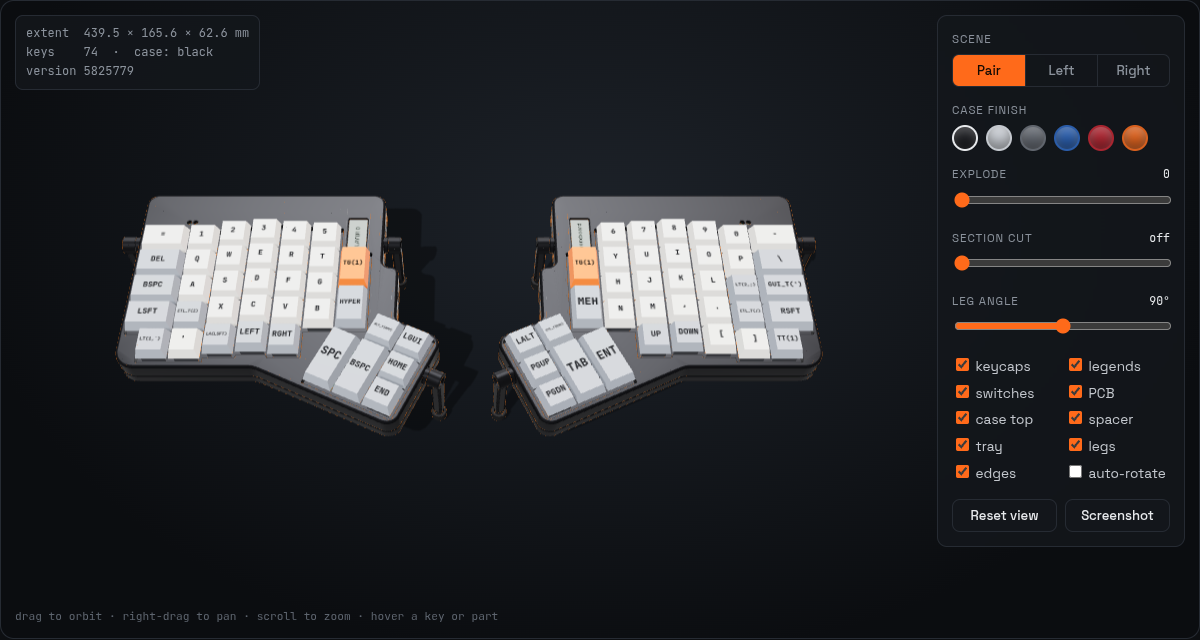
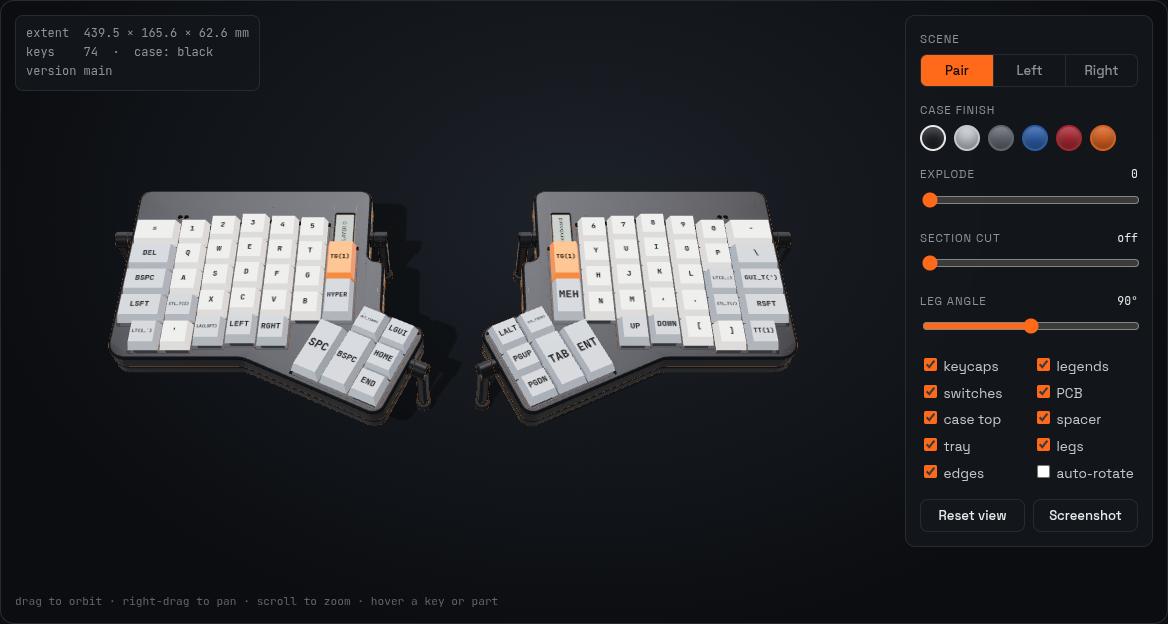
feat(site): place the assembled board parts in the viewer and show the final status
build_site.py adds every assembled part of the committed boards to the
manifest (footprint pose, Fab-outline box) and the viewer draws them, so
the left RP2040 and flash sit where WS2 placed them. The page gets the
final status table, known open issues and links to the CI artifacts; the
gallery is ordered PCB renders first, then the case renders. pages.yml
installs the font the case side mark needs and stays manual-only.
Fresh viewer screenshots.

diff --git a/site/web/index.html b/site/web/index.html
@@ -28,6 +28,7 @@
     <a href="#viewer">Viewer</a>
     <a href="#features">Features</a>
     <a href="#status">Status</a>
+    <a href="#files">Files</a>
     <a href="#gallery">Gallery</a>
     <a href="#docs">Docs</a>
     <a class="gh" href="https://github.com/w0rxbend/worxboard">GitHub ↗</a>
@@ -48,7 +49,8 @@
       <a class="btn primary" href="https://github.com/w0rxbend/worxboard">View the repository</a>
       <a class="btn" href="#viewer">Spin the model ↓</a>
     </div>
-    <p class="warn">Rev A is in development and has not been built. Do not order boards until gates G1–G3 pass
+    <p class="warn">Rev A is designed, routed and built in CI, but no board has been made or tested on hardware.
+      Do not order until gates G1–G3 pass
       (<a href="https://github.com/w0rxbend/worxboard/blob/main/docs/bom.md#gates">BOM gates</a>).</p>
   </div>
 </section>
@@ -128,17 +130,38 @@
 
 <section id="status" class="status-wrap">
   <h2>Status</h2>
-  <p class="lede">Rev A is built by parallel work-streams to a <a href="https://github.com/w0rxbend/worxboard/blob/main/docs/design.md">frozen spec</a>.</p>
+  <p class="lede">Rev A was built by parallel work-streams to a <a href="https://github.com/w0rxbend/worxboard/blob/main/docs/design.md">frozen spec</a>;
+    every change from it is recorded in <a href="https://github.com/w0rxbend/worxboard/blob/main/docs/deviations.md">deviations.md</a>.</p>
   <table class="status">
     <thead><tr><th>Part</th><th>State</th><th>What exists</th></tr></thead>
     <tbody>
       <tr><td>Layout</td><td><span class="pill done">done</span></td><td>Keys, thumbs, display, jacks, holes, outline, zones and GPIO map; <span class="mono">layout.json</span> drives everything here.</td></tr>
-      <tr><td>Firmware</td><td><span class="pill wip">in progress</span></td><td>ZMK module, 3-layer keymap, generated physical layout, custom right screen and the firmware workflow; untested on hardware.</td></tr>
-      <tr><td>PCB</td><td><span class="pill wip">in progress</span></td><td>Scripted KiCad 10 pipeline: schematic, placement, Freerouting, DRC, JLC outputs.</td></tr>
-      <tr><td>Case</td><td><span class="pill wip">in progress</span></td><td>build123d port of the ErgoDox CNC case with display window, USB-C on both halves and the TRRS bump.</td></tr>
-      <tr><td>Docs and site</td><td><span class="pill done">first pass</span></td><td>Build guide, BOM, electrical notes, generated pinout and matrix, ordering, case and firmware pages.</td></tr>
+      <tr><td>PCB</td><td><span class="pill done">routed</span></td><td>Both halves generated by script in KiCad 10: ERC clean, DRC with schematic parity 0 violations and 0 unconnected, USB pair and crystal checks pass. A seeded rebuild reproduces the committed boards; CI produces gerbers, BOM, CPL and the STEP.</td></tr>
+      <tr><td>Firmware</td><td><span class="pill done">builds</span></td><td>ZMK module: left central, right peripheral, role-swap and RP2350A rows, all six UF2s built in CI. 3-layer keymap, generated physical layout, custom right screen. Untested on hardware.</td></tr>
+      <tr><td>Case</td><td><span class="pill done">modelled</span></td><td>build123d case with display window, USB-C on both halves and the TRRS bump; every case check passes and the fit check against the PCB STEPs reports 0&nbsp;mm³.</td></tr>
+      <tr><td>Docs and site</td><td><span class="pill done">done</span></td><td>Build guide, generated BOM, pinout and matrix, electrical, ordering, case, legs and firmware pages; this viewer.</td></tr>
+      <tr><td>Gates G1–G3, release</td><td><span class="pill wip">open</span></td><td>Display stack, TRRS jack height and the [G3] parts and stock must be verified before ordering. No release has been tagged.</td></tr>
     </tbody>
   </table>
+  <h3 class="sub">Known open issues</h3>
+  <ul class="issues">
+    <li>Nothing has been made or run on hardware: displays, wired split, lock indicators and the role-swap firmware are untested.</li>
+    <li>Both screens are laid out landscape, but the module is mounted upright: the text will read rotated until the firmware gets a rotation (gate G1).</li>
+    <li>LCSC listed no stock for the flash (C113767), the 10&nbsp;kΩ resistor (C25744) and the hot-swap socket (C2803348) on <span class="nw">2026-10-29</span>.</li>
+    <li>KiCad has no 3D model for the USB-C, the TRRS jack or the hot-swap socket, so the board STEP and the JLC preview lack those bodies; the STEP also leaves out the display socket.</li>
+    <li>Signal and matrix tracks run at 0.15–0.18&nbsp;mm, above JLC's 0.127&nbsp;mm two-layer minimum (gate G3).</li>
+  </ul>
+</section>
+
+<section id="files" class="build">
+  <h2>Get the files</h2>
+  <p class="lede">Every push to <span class="mono">main</span> rebuilds everything in CI. Download the artifacts of a green run:</p>
+  <div class="docs">
+    <a href="https://github.com/w0rxbend/worxboard/actions/workflows/firmware.yml">worxboard-firmware<span>six UF2 files: left central, right peripheral, experimental rows</span></a>
+    <a href="https://github.com/w0rxbend/worxboard/actions/workflows/pcb.yml">worxboard-pcb-left / -right<span>gerbers.zip, bom.csv, pos.csv, board STEP, Edge DXF, DRC report</span></a>
+    <a href="https://github.com/w0rxbend/worxboard/actions/workflows/case.yml">worxboard-case<span>case STEP/STL/DXF, plates, renders, CNC order package</span></a>
+    <a href="https://github.com/w0rxbend/worxboard/actions/workflows/layout.yml">layout<span>layout tests and the committed layout.json</span></a>
+  </div>
 </section>
 
 <section id="gallery" class="gallery">
@@ -155,8 +178,10 @@
 <span class="p">$</span> just setup          <span class="c"># .venv with every Python group</span>
 <span class="p">$</span> just layout-check   <span class="c"># layout tests + no-diff check</span>
 <span class="p">$</span> just fw             <span class="c"># ZMK firmware for every build.yaml row (Docker)</span>
-<span class="p">$</span> just pcb-all        <span class="c"># both PCBs: ERC, routing, DRC, JLC files (Docker)</span>
-<span class="p">$</span> just model          <span class="c"># case STEP/STL/DXF</span>
+<span class="p">$</span> just pcb-fab left   <span class="c"># JLC files, renders, STEP from the committed board (Docker)</span>
+<span class="p">$</span> just pcb-all        <span class="c"># both PCBs from scratch: ERC, routing, DRC, JLC files (~20 min per side)</span>
+<span class="p">$</span> just model          <span class="c"># case STEP/STL/DXF and plates</span>
+<span class="p">$</span> just fitcheck       <span class="c"># case vs the PCB STEPs: 0 mm3</span>
 <span class="p">$</span> just site           <span class="c"># this page, into _site/</span></pre>
   </div>
 </section>

diff --git a/site/web/viewer.js b/site/web/viewer.js
@@ -1,5 +1,6 @@
 // worxboard viewer. Builds the PCB, switches, keycaps and display of both halves from layout.json,
-// and adds the case STLs when the build included them. Adapted from the w0rxbend/ergodox viewer.
+// places the assembled parts of the committed boards (manifest.components) and adds the case STLs
+// when the build included them. Adapted from the w0rxbend/ergodox viewer.
 // Frames: layout.json is the KiCad frame (mm, +y towards the user); the scene is the CAD frame of the
 // reference case, (x - OX, -(y - OY)) with Z up. The left half's layout data is already mirrored.
 import * as THREE from "three";
@@ -24,7 +25,7 @@ const CAP_TAPER = 0.8;        // top face scale of a keycap
 const SW_LOWER = 14.0, SW_UPPER = 15.6;
 const SOCKET = { off: [-0.6, -3.8], size: [11.0, 5.0], h: 1.8 };   // Kailh MX hot-swap, footprint frame
 const DISPLAY_T = 2.9, DISPLAY_Z = 13.0;
-const PART_H = { U1: 0.9, U2: 1.8, SW_BOOT: 1.5, SW_RST: 1.5, J3: DISPLAY_Z - Z.pcbTop };
+const J3_H = DISPLAY_Z - Z.pcbTop;   // display socket: up to the module
 const CASE_MARGIN = 6.2;      // case wall + clearance + leg boss beyond the PCB edge
 const PAIR_GAP = 30;
 const EXPLODE = { pcb: 12, spacer: 24, top: 36, switches: 48, caps: 66 };
@@ -89,6 +90,7 @@ const M = {
   pcb: std(0x1f6f4a, 0.1, 0.55),
   copper: std(0xd4a54a, 0.9, 0.3),
   chip: std(0x16171a, 0.2, 0.5),
+  passive: std(0x9c7b52, 0.1, 0.6),
   metal: std(0xb9bec6, 0.85, 0.3),
   socket: std(0xece7dc, 0, 0.7),
   sw: std(0x2b2d33, 0.05, 0.6),
@@ -272,10 +274,18 @@ function pcbGroup(side) {
   const s = lay.sides[side];
   const board = mesh(pcbGeometry(side), M.pcb, `worxboard-${side} PCB\n2-layer, 1.6 mm, ENIG\n${s.keys.length} keys`);
   g.add(withEdges(board, 20));
-  const bodies = manifest.bodies[side];
-  const labels = { U1: "RP2040", U2: "W25Q128 flash", SW_BOOT: "BOOT button", SW_RST: "RESET button", J3: "J3 display header" };
-  for (const [ref, label] of Object.entries(labels)) {
-    g.add(rectBox(bodies[ref], Z.pcbTop, Z.pcbTop + PART_H[ref], ref.startsWith("SW") ? M.metal : M.chip, `${ref}  ${label}`));
+  g.add(rectBox(manifest.bodies[side].J3, Z.pcbTop, Z.pcbTop + J3_H, M.chip, "J3  display socket (hand-soldered)"));
+  // assembled parts at their footprint pose: box = [cx, cy, w, l, h] in the footprint frame
+  for (const c of manifest.components[side]) {
+    const [cx, cy, w, l, h] = c.box;
+    const top = c.side === "top";
+    const body = mesh(new THREE.BoxGeometry(w, l, h), M[c.mat], `${side} ${c.ref}  ${c.value}\n${c.part}, ${c.side} side`);
+    body.position.set(cx, -cy, top ? Z.pcbTop + h / 2 : Z.pcb - h / 2);
+    const at = new THREE.Group().add(body);
+    const [x, y] = cad(c.at);
+    at.position.set(x, y, 0);
+    at.rotation.z = THREE.MathUtils.degToRad(c.at[2]);
+    g.add(at);
   }
   for (const j of s.jacks) {
     const label = j.ref === "J1" ? "J1 USB-C (HRO TYPE-C-31-M-12)" : "J2 TRRS jack (PJ-320D)\nDO NOT HOT-PLUG";
@@ -518,15 +528,16 @@ $("shots").innerHTML = manifest.gallery.map((s) =>
 
 const DOCS = [
   ["docs/buildguide_en.md", "Build guide", "Check, flash, solder J3, assemble"],
-  ["docs/bom.md", "Bill of materials", "JLC parts with [G3] flags, builder parts, gates"],
+  ["docs/bom.md", "Bill of materials", "JLC parts with [G3] flags, builder parts, gates (generated)"],
   ["docs/electrical.md", "Electrical design", "Power path, TRRS, USB-C, MCU, display"],
-  ["docs/pinout.md", "Pinout", "GPIO map, TRRS contacts, J3 (generated)"],
-  ["docs/matrix.md", "Key matrix", "6×7 per half, ZMK 6×14 transform (generated)"],
+  ["docs/pinout.md", "Pinout", "GPIO map, TRRS, J3, part positions (generated)"],
+  ["docs/matrix.md", "Key matrix", "6×7 per half, sockets, ZMK 6×14 transform (generated)"],
   ["docs/firmware.md", "Firmware", "ZMK builds, flashing, keymap, displays"],
   ["docs/ordering-jlcpcb.md", "Ordering PCBs", "JLCPCB settings for both sides"],
   ["docs/case.md", "Case and plates", "build123d case, Z stack, files"],
   ["docs/legs.md", "Tent legs", "Mounts, positions, the custom leg"],
   ["docs/design.md", "Design spec", "The frozen rev A specification"],
+  ["docs/deviations.md", "Deviations", "What changed from the spec, and why"],
   ["docs/sources.md", "Sources", "Prior art and attribution"],
 ];
 $("doclinks").innerHTML = DOCS.map(([p, t, d]) => `<a href="${blob(p)}">${t}<span>${d}</span></a>`).join("");

diff --git a/site/web/style.css b/site/web/style.css
@@ -196,3 +196,7 @@ footer p { margin: 4px 0; max-width: 820px; }
 .docs a:hover { border-color: var(--accent); text-decoration: none; }
 .docs a span { display: block; color: var(--muted); font-size: .85rem; margin-top: 2px; }
 .warn { margin-top: 18px; padding: 12px 16px; border-left: 3px solid var(--accent); background: var(--bg2); color: #c3c7cd; font-size: .92rem; max-width: 760px; }
+.status-wrap .sub { margin-top: 32px; font-size: 1.05rem; }
+.issues { margin: 12px 0 0; padding-left: 20px; color: #c3c7cd; font-size: .92rem; max-width: 900px; }
+.issues li { margin: 6px 0; }
+.nw { white-space: nowrap; }

diff --git a/site/build_site.py b/site/build_site.py
@@ -1,10 +1,11 @@
 # SPDX-License-Identifier: GPL-3.0-or-later
 """Assemble the GitHub Pages microsite.
 
-Copies the static viewer (site/web/), layout/build/layout.json, the doc images and, when they exist,
-the case STLs from case/exports/ and their renders. Writes manifest.json with part stats, part
-bodies from `layout`, leg placements and the gallery list. Everything except `layout` is optional,
-so the site builds before the PCB and case streams have produced anything.
+Copies the static viewer (site/web/), layout/build/layout.json, the doc images and the case renders
+and, when they exist, the case STLs from case/exports/. Writes manifest.json with the case part
+stats, leg placements, the gallery list and the PCB components: every assembled part of the
+committed boards (pcb/<side>/*.kicad_pcb) as a box at its footprint position, sized from the
+footprint's Fab outline. The case STLs are optional (`just model`).
 
 usage: build_site.py <out dir> [version]
 """
@@ -23,6 +24,7 @@ import numpy as np
 ROOT = Path(__file__).resolve().parent.parent
 sys.path.insert(0, str(ROOT))
 import layout as L  # noqa: E402
+import pcbdata as PCB  # noqa: E402
 
 WEB = ROOT / "site/web"
 LAYOUT_JSON = ROOT / "layout/build/layout.json"
@@ -33,7 +35,14 @@ REPO = "https://github.com/w0rxbend/worxboard"
 
 AL_DENSITY = 2.70e-3      # g/mm3, 6061
 CAD_ORIGIN = (130.0, 100.0)   # KiCad -> CAD frame: (x - OX, -(y - OY)), as in the reference case
-ZONED_PARTS = ("U1", "U2", "SW_BOOT", "SW_RST", "J1", "J2", "J3")
+LAYOUT_BODIES = ("J3",)       # drawn from `layout` (the header up to the display module)
+SKIP_REFS = ("SK", "H", "STAB_", "J", "TP", "JP")   # sockets/jacks drawn from layout; holes; copper only
+# footprint library -> (body height mm, viewer material)
+PART_BODY = {
+    "Package_DFN_QFN": (0.9, "chip"), "Package_SO": (1.75, "chip"), "Crystal": (0.8, "metal"),
+    "Package_TO_SOT_SMD": (1.1, "chip"), "Diode_SMD": (1.1, "chip"), "Fuse": (0.85, "passive"),
+    "Resistor_SMD": (0.35, "chip"), "Capacitor_SMD": (0.5, "passive"), "Button_Switch_SMD": (2.0, "metal"),
+}
 CASE_PARTS = {  # stl stem (after "worxboard_") -> label, material, role
     "right_top": ("Right top shell", "alu", "top"),
     "right_bottom": ("Right bottom tray", "alu", "bottom"),
@@ -44,12 +53,19 @@ CASE_PARTS = {  # stl stem (after "worxboard_") -> label, material, role
     "leg": ("Tent leg", "alu", "leg"),
     "leg_cap": ("Leg foot cap", "tpu", "leg_cap"),
 }
-CAPTIONS = {  # image stem -> caption; unknown images get their file name
+CAPTIONS = {  # image stem -> caption, in gallery order; unknown images follow with their file name
     "layout": "Layout of both halves, generated from layout/",
+    "pcb-left-top": "Left PCB, top (KiCad render)", "pcb-right-top": "Right PCB, top (KiCad render)",
+    "pcb-left-bottom": "Left PCB, bottom", "pcb-right-bottom": "Right PCB, bottom",
+    "pair_top_iso": "Both top shells", "right_top_underside": "Right top shell, underside",
+    "right_bottom_tray": "Right bottom tray", "right_back_usb": "Back wall with the USB-C notch",
+    "spacer": "Plate spacer", "right_with_legs": "Right half with the tent legs",
+    "leg": "Tent leg and foot cap", "leg_section": "Section through a leg mount",
+    "section": "Sections: key columns, display pocket, screws, USB-C, TRRS",
+    "overlay": "The case over the PCB layout",
     "concept-annotated": "The original concept sketch",
-    "pcb-left-top": "Left PCB, top", "pcb-left-bottom": "Left PCB, bottom",
-    "pcb-right-top": "Right PCB, top", "pcb-right-bottom": "Right PCB, bottom",
 }
+GALLERY_SKIP = ("site-viewer",)   # screenshots of this page
 IMAGE_EXT = (".png", ".svg", ".jpg")
 
 
@@ -117,16 +133,32 @@ def gallery(out: Path) -> list[dict]:
         if not d.is_dir():
             continue
         for p in sorted(d.iterdir()):
-            if p.suffix in IMAGE_EXT:
+            if p.suffix in IMAGE_EXT and not p.stem.startswith(GALLERY_SKIP):
                 shutil.copyfile(p, out / "images" / p.name)
                 shots.append(dict(file=f"images/{p.name}", caption=CAPTIONS.get(p.stem, p.stem),
-                                  wide=p.stem in ("layout", "concept-annotated")))
-    return shots
+                                  wide=p.stem in ("layout", "concept-annotated", "section", "pair_top_iso")))
+    order = list(CAPTIONS)
+    return sorted(shots, key=lambda s: order.index(Path(s["file"]).stem) if Path(s["file"]).stem in order else len(order))
 
 
 def bodies() -> dict:
-    """Top-side part bodies per side (KiCad frame rectangles) for the PCB preview."""
-    return {s: {ref: list(L.part_rect(s, ref)) for ref in ZONED_PARTS} for s in L.SIDES}
+    """Layout part rectangles per side (KiCad frame) the viewer draws itself."""
+    return {s: {ref: list(L.part_rect(s, ref)) for ref in LAYOUT_BODIES} for s in L.SIDES}
+
+
+def components(side: str) -> list[dict]:
+    """Assembled parts of the committed board: footprint pose and Fab-outline box (KiCad frame)."""
+    out = []
+    for f in sorted(PCB.footprints(side).values(), key=lambda f: PCB.ref_key(f.ref)):
+        lib = f.lib.split(":")[0]
+        if f.ref.startswith(SKIP_REFS) or f.body is None or lib not in PART_BODY:
+            continue
+        h, mat = PART_BODY[lib]
+        x0, y0, x1, y1 = f.body
+        out.append(dict(ref=f.ref, value=f.value, part=f.lib.split(":")[1], side=f.side,
+                        at=[f.x, f.y, f.rot], box=[round((x0 + x1) / 2, 3), round((y0 + y1) / 2, 3),
+                                                   round(x1 - x0, 3), round(y1 - y0, 3), h], mat=mat))
+    return out
 
 
 def main(out: Path, version: str) -> int:
@@ -139,13 +171,15 @@ def main(out: Path, version: str) -> int:
     manifest = dict(
         version=version, repo=REPO,
         cad_origin=[getattr(ec, "OX", CAD_ORIGIN[0]), getattr(ec, "OY", CAD_ORIGIN[1])],
-        bodies=bodies(), parts=parts, legs=leg_placements(ec) if parts else [], gallery=gallery(out),
+        bodies=bodies(), components={s: components(s) for s in L.SIDES},
+        parts=parts, legs=leg_placements(ec) if parts else [], gallery=gallery(out),
     )
     (out / "manifest.json").write_text(json.dumps(manifest, indent=1) + "\n")
     (out / ".nojekyll").touch()
     total = sum(p.stat().st_size for p in out.rglob("*") if p.is_file())
     print(f"site: {out} ({total / 1e6:.1f} MB), version {version}")
-    print(f"  {len(parts)} case parts, {len(manifest['legs'])} leg mounts, {len(manifest['gallery'])} images")
+    print(f"  {len(parts)} case parts, {len(manifest['legs'])} leg mounts, {len(manifest['gallery'])} images, "
+          f"{sum(len(c) for c in manifest['components'].values())} PCB components")
     for name, p in parts.items():
         print(f"  {name:13s} {p['triangles']:6d} tris  {p['size']}  {p['mass_g']} g")
     return 0
